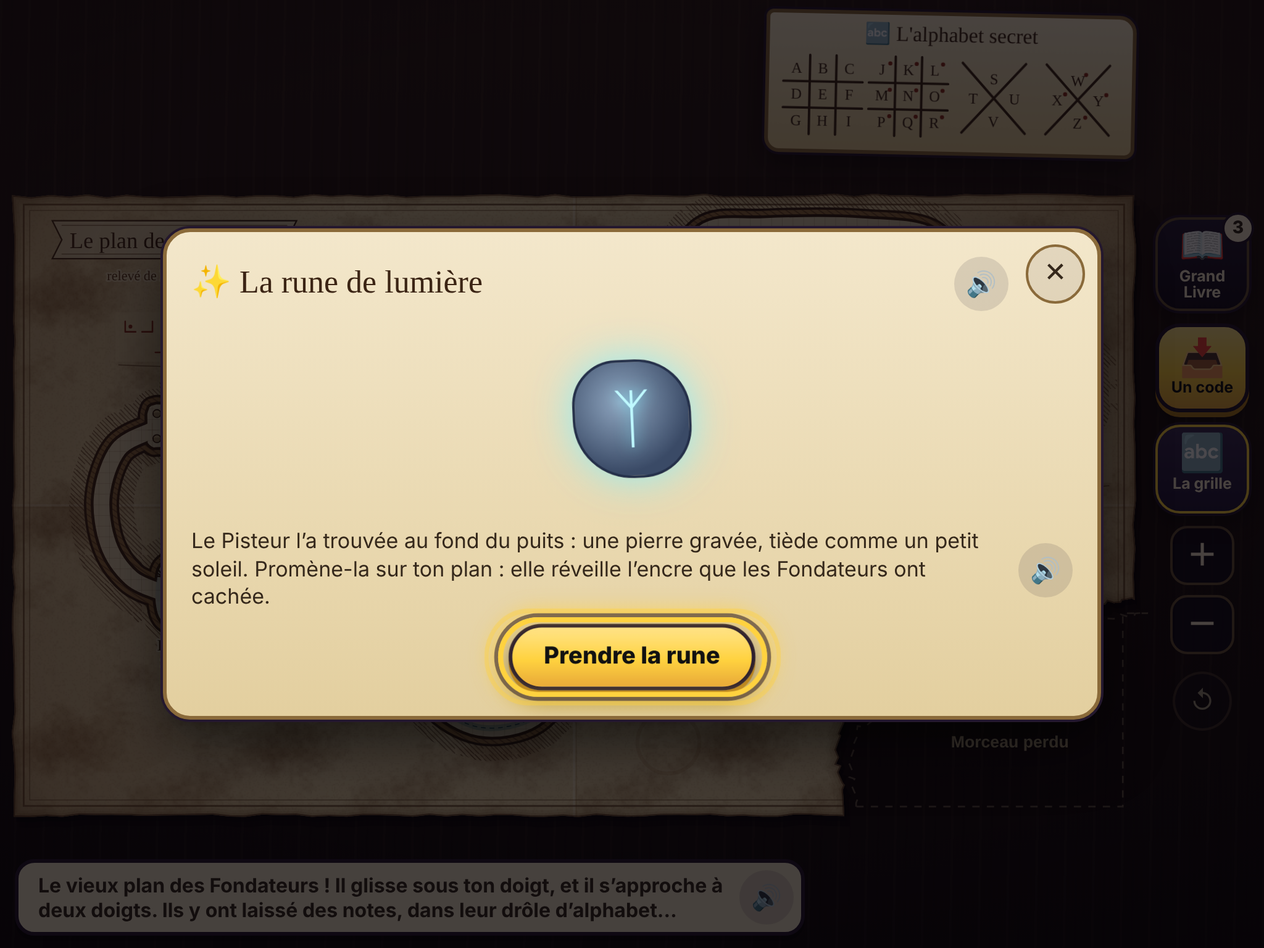
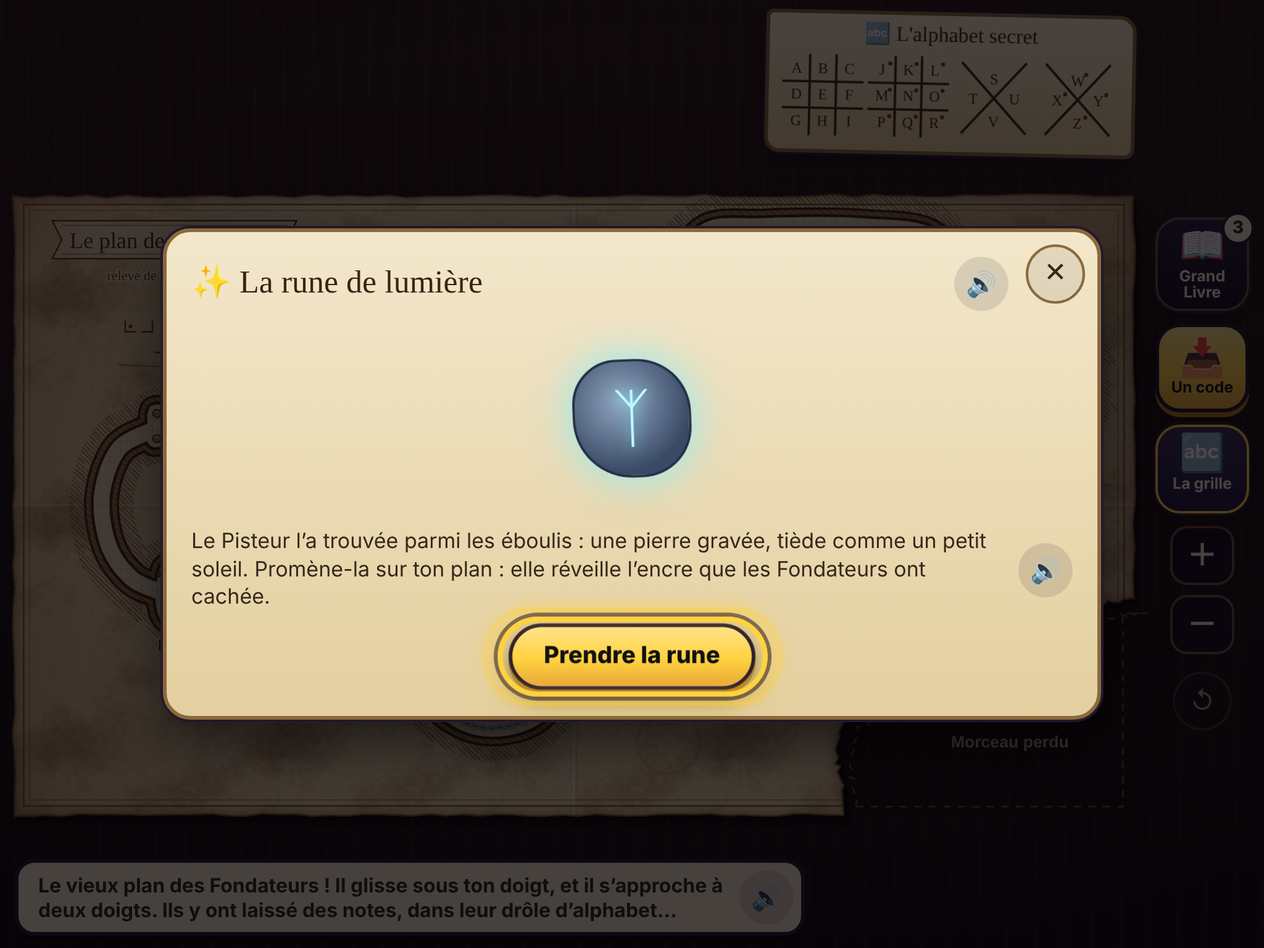
Donjon : carnet de l'aventurier tout ouvert, rune dans la deuxième salle, même donjon par le puits ou la crypte ; tests et documents à jour
Claude-Session: https://claude.ai/code/session_014tBbPJtKqYNLRAPgA5SpCV

Changed region(s): [[0.375, 0.625, 0.625, 0.7188], [0.3125, 0.5625, 0.7812, 0.5938], [0.4375, 0.7188, 0.5625, 0.75]]

diff --git a/jeu/donjon/donjon-sage.html b/jeu/donjon/donjon-sage.html
@@ -751,8 +751,10 @@ D.CHEMIN = ['rats', 'canaux', 'toiles', 'atelier', 'ossuaire', 'bassin'];
 /* ===================================================================== 8. LES LIEUX (ids de carte.js) : ce qu'on y trouve
    objets : à prendre en les touchant. coffre : deux objets, on n'en prend qu'un. combat : l'id dans D.COMBATS. */
 D.LIEUX = {
-  puits:{nom:'Le fond du puits', depart:true, objets:['rune', 'carnet']},     /* le carnet de l'aventurier attend à l'entrée (Romain, 11 novembre) */
-  galerie:{nom:'La galerie effondrée', objets:['bourse']},
+  puits:{nom:'Le fond du puits', depart:true, objets:['carnet']},             /* le carnet de l'aventurier attend à l'entrée (Romain, 11 novembre) */
+  /* Romain, 11 novembre (8 h 45) : la rune du Sage n'est plus dans la première salle, mais dans la deuxième — pour que rien ne
+     dépende de l'entrée (le puits aujourd'hui, la crypte dans l'enquête 3) */
+  galerie:{nom:'La galerie effondrée', objets:['bourse', 'rune']},
   aeration:{nom:'Le puits d\'aération', objets:['herbes']},            /* (la sacoche est retirée : plus de sac à remplir, Romain, 10 novembre) */
   rats:{nom:'La salle des rats', combat:'rats'},
   reserve:{nom:'La réserve', objets:['fleches-argent', 'fleches-lourdes']},      /* deux carquois dans un coffre : on prend ce que les mains peuvent porter */
@@ -3204,7 +3206,8 @@ function majCoin(anim){
   }
 }
 function majTraductions(){ qa('[data-trad]', planEl).forEach(function(g){ g.style.display = S.lues[g.getAttribute('data-trad')] ? '' : 'none'; }); }
-/* la rune de lumière : le Pisteur la trouve au fond du puits (Romain, 10 novembre) ; tant que son code n'est pas arrivé, pas de rune */
+/* la rune de lumière : le Pisteur la trouve dans le donjon (dans la deuxième salle ; le texte ne dit pas où : l'entrée peut être
+   le puits ou la crypte — Romain, 11 novembre) ; tant que son code n'est pas arrivé, pas de rune */
 function majRune(anim){
   var ok = !!S.codes['rune:lumiere'];
   runeEl.hidden = !ok;
@@ -3457,11 +3460,10 @@ function livre(guide){
   }
   html += '</div>';
   /* le carnet de l'aventurier (trouvé par le Pisteur à l'entrée du donjon) : une page par monstre étudié */
-  var betes = monstresEtudies(), carnet = !!S.codes['carnet:aventurier'];
+  var betes = monstresEtudies();                        /* (tout le carnet dès qu'il est là : Romain, 11 novembre) */
   html += '<div class="livre-betes"><h3>📓 Le vieux carnet</h3>' +
     (betes.length ? '<div class="betes">' + betes.map(function(m){ return '<button type="button" class="bete-vignette" data-bete="' + m + '"><img src="' + PORTRAITS + m + '.webp" alt="" loading="lazy"><b>' + esc(DD.MONSTRES[m].nom) + '</b></button>'; }).join('') + '</div>'
-      : dit(carnet ? 'Ses pages sont collées par l’humidité. Pendant un combat, ton héros peut étudier un monstre : le Pisteur te montrera un code, et tu sauras quelle page décoller.'
-                   : 'Pas encore de carnet. On raconte qu’un aventurier a laissé le sien à l’entrée du donjon… Si le Pisteur le trouve, il te montrera un code.')) + '</div>';
+      : dit('Pas encore de carnet. On raconte qu’un aventurier a laissé le sien à l’entrée du donjon… Si le Pisteur le trouve, il te montrera un code.')) + '</div>';
   if(S.codes['porte:odette']) html += '<div class="livre-note">' + dit('Noté de ta main : Odette est vivante, derrière la porte aux quatre signes.') + '</div>';
   var w = PG.fenetre(html, {classe:'livre parch'}), f = w.el;
   if(guide) PG.guider(f.querySelector('[data-page="' + guide + '"]'));
@@ -3480,15 +3482,17 @@ function livre(guide){
    (fabriqués par pages/croquis/seuls.py puis croquis.py, à partir des monstres du bestiaire).
    ====================================================================== */
 var PORTRAITS = /donjon-sage\.html/.test(location.pathname) ? 'pages/portraits/' : 'i/portrait-';
-function monstresEtudies(){ return Object.keys(DD.LIVRE).filter(function(m){ return !!S.codes['etude:' + m]; }); }
+/* Romain, 11 novembre (8 h 45) : « qu'il y ait toutes les pages débloquées dès le début », sans pages collées. Dès que le Sage
+   a le carnet, il le feuillette en entier ; un code d'étude l'ouvre tout droit à la page du monstre. (Sans le carnet, seules
+   les pages ouvertes par un code d'étude sont là.) */
+function monstresEtudies(){ return Object.keys(DD.LIVRE).filter(function(m){ return !!S.codes['carnet:aventurier'] || !!S.codes['etude:' + m]; }); }
 /* la page d'un monstre : le croquis de l'aventurier et son récit (un 🔊 par paragraphe). Pas de titres, pas de questions. */
 function pageMonstre(m, nouveau){
   var M = DD.MONSTRES[m], L = DD.LIVRE[m] || [];
   var html = '<div class="titre"><h2>' + esc(M.nom) + '</h2>' + PG.lireBtn(M.nom) + '</div>' +
     '<div class="bete-page"><div class="bete-img"><img src="' + PORTRAITS + m + '.webp" alt=""><small>Carnet d’un aventurier</small></div>' +
     '<div class="bete-recit">' +
-      (nouveau ? dit(S.codes['carnet:aventurier'] ? 'Une page du carnet se décolle : c’est bien ce monstre-là. L’aventurier raconte ce qui lui est arrivé. À toi de voir ce que ça vous apprend.'
-                                                  : 'Une vieille page, glissée dans ton Grand Livre. Un aventurier y raconte ce qui lui est arrivé. À toi de voir ce que ça vous apprend.', 'bete-intro') : '') +
+      (nouveau ? dit('Le carnet s’ouvre à la bonne page : c’est bien ce monstre-là. L’aventurier raconte ce qui lui est arrivé. À toi de voir ce que ça vous apprend.', 'bete-intro') : '') +
       L.map(function(t){ return '<div class="recit">' + dit(t) + '</div>'; }).join('') +
     '</div></div>' +
     '<div class="rangee"><button type="button" class="aller" data-fen-fermer>' + (nouveau ? 'C’est noté' : 'Refermer la page') + '</button></div>';
@@ -3528,18 +3532,18 @@ function scene(id){
   if(id.indexOf('etude:') === 0){
     var m = id.slice(6);
     pageMonstre(m, true);
-    conte('Une page de plus dans le carnet de l’aventurier : ' + DD.MONSTRES[m].nom + '. Tu la retrouveras dans ton Grand Livre.');
+    conte('Le carnet de l’aventurier, à la page : ' + DD.MONSTRES[m].nom + '. Tu la retrouveras dans ton Grand Livre.');
   } else if(id === 'carnet:aventurier'){
     /* le carnet trouvé à l'entrée du donjon : il entre dans le Grand Livre */
     var wc = PG.fenetre('<div class="titre"><h2>📓 Un vieux carnet</h2></div>' +
-      dit('Un vieux carnet, trouvé à l’entrée du donjon. Quelqu’un est passé par ici avant vous : un aventurier, sans pouvoirs ni potions, qui a tout noté.') +
-      dit('L’humidité a collé ses pages. Quand ton héros étudiera un monstre, tu sauras laquelle décoller.') +
+      dit('Un vieux carnet, trouvé à l’entrée du donjon. Quelqu’un est passé par ici avant vous : un aventurier, qui a tout noté.') +
+      dit('Chaque monstre qu’il a croisé a sa page. Tu peux le feuilleter quand tu veux, dans ton Grand Livre.') +
       '<div class="rangee"><button type="button" class="aller" data-fen-fermer>Je le garde</button></div>', {classe:'scene parch'});
     PG.son('page'); PG.guider(wc.el.querySelector('.aller'));
-    conte('Le carnet de l’aventurier est rangé dans ton Grand Livre. Ses pages attendent d’être décollées.');
+    conte('Le carnet de l’aventurier est rangé dans ton Grand Livre. Feuillette-le : chaque monstre y a sa page.');
   } else if(id === 'rune:lumiere'){
     var wr = PG.fenetre('<div class="titre"><h2>✨ La rune de lumière</h2>' + PG.lireBtn('La rune de lumière') + '</div>' + '<div class="scene-img rune-img" aria-hidden="true"><i>ᛉ</i></div>' +
-      dit('Le Pisteur l’a trouvée au fond du puits : une pierre gravée, tiède comme un petit soleil. Promène-la sur ton plan : elle réveille l’encre que les Fondateurs ont cachée.', 'scene-txt') +
+      dit('Le Pisteur l’a trouvée parmi les éboulis : une pierre gravée, tiède comme un petit soleil. Promène-la sur ton plan : elle réveille l’encre que les Fondateurs ont cachée.', 'scene-txt') +
       '<div class="rangee"><button type="button" class="aller" data-fen-fermer>Prendre la rune</button></div>', {classe:'scene parch', surFermer:function(){
         majRune(true); mesurerBords(); PG.guider(runeEl);
         conte('Ta rune de lumière est là, en bas. Promène-la doucement sur le vieux papier…');

diff --git a/jeu/donjon/pages/sage.js b/jeu/donjon/pages/sage.js
@@ -111,7 +111,8 @@ function majCoin(anim){
   }
 }
 function majTraductions(){ qa('[data-trad]', planEl).forEach(function(g){ g.style.display = S.lues[g.getAttribute('data-trad')] ? '' : 'none'; }); }
-/* la rune de lumière : le Pisteur la trouve au fond du puits (Romain, 10 novembre) ; tant que son code n'est pas arrivé, pas de rune */
+/* la rune de lumière : le Pisteur la trouve dans le donjon (dans la deuxième salle ; le texte ne dit pas où : l'entrée peut être
+   le puits ou la crypte — Romain, 11 novembre) ; tant que son code n'est pas arrivé, pas de rune */
 function majRune(anim){
   var ok = !!S.codes['rune:lumiere'];
   runeEl.hidden = !ok;
@@ -364,11 +365,10 @@ function livre(guide){
   }
   html += '</div>';
   /* le carnet de l'aventurier (trouvé par le Pisteur à l'entrée du donjon) : une page par monstre étudié */
-  var betes = monstresEtudies(), carnet = !!S.codes['carnet:aventurier'];
+  var betes = monstresEtudies();                        /* (tout le carnet dès qu'il est là : Romain, 11 novembre) */
   html += '<div class="livre-betes"><h3>📓 Le vieux carnet</h3>' +
     (betes.length ? '<div class="betes">' + betes.map(function(m){ return '<button type="button" class="bete-vignette" data-bete="' + m + '"><img src="' + PORTRAITS + m + '.webp" alt="" loading="lazy"><b>' + esc(DD.MONSTRES[m].nom) + '</b></button>'; }).join('') + '</div>'
-      : dit(carnet ? 'Ses pages sont collées par l’humidité. Pendant un combat, ton héros peut étudier un monstre : le Pisteur te montrera un code, et tu sauras quelle page décoller.'
-                   : 'Pas encore de carnet. On raconte qu’un aventurier a laissé le sien à l’entrée du donjon… Si le Pisteur le trouve, il te montrera un code.')) + '</div>';
+      : dit('Pas encore de carnet. On raconte qu’un aventurier a laissé le sien à l’entrée du donjon… Si le Pisteur le trouve, il te montrera un code.')) + '</div>';
   if(S.codes['porte:odette']) html += '<div class="livre-note">' + dit('Noté de ta main : Odette est vivante, derrière la porte aux quatre signes.') + '</div>';
   var w = PG.fenetre(html, {classe:'livre parch'}), f = w.el;
   if(guide) PG.guider(f.querySelector('[data-page="' + guide + '"]'));
@@ -387,15 +387,17 @@ function livre(guide){
    (fabriqués par pages/croquis/seuls.py puis croquis.py, à partir des monstres du bestiaire).
    ====================================================================== */
 var PORTRAITS = /donjon-sage\.html/.test(location.pathname) ? 'pages/portraits/' : 'i/portrait-';
-function monstresEtudies(){ return Object.keys(DD.LIVRE).filter(function(m){ return !!S.codes['etude:' + m]; }); }
+/* Romain, 11 novembre (8 h 45) : « qu'il y ait toutes les pages débloquées dès le début », sans pages collées. Dès que le Sage
+   a le carnet, il le feuillette en entier ; un code d'étude l'ouvre tout droit à la page du monstre. (Sans le carnet, seules
+   les pages ouvertes par un code d'étude sont là.) */
+function monstresEtudies(){ return Object.keys(DD.LIVRE).filter(function(m){ return !!S.codes['carnet:aventurier'] || !!S.codes['etude:' + m]; }); }
 /* la page d'un monstre : le croquis de l'aventurier et son récit (un 🔊 par paragraphe). Pas de titres, pas de questions. */
 function pageMonstre(m, nouveau){
   var M = DD.MONSTRES[m], L = DD.LIVRE[m] || [];
   var html = '<div class="titre"><h2>' + esc(M.nom) + '</h2>' + PG.lireBtn(M.nom) + '</div>' +
     '<div class="bete-page"><div class="bete-img"><img src="' + PORTRAITS + m + '.webp" alt=""><small>Carnet d’un aventurier</small></div>' +
     '<div class="bete-recit">' +
-      (nouveau ? dit(S.codes['carnet:aventurier'] ? 'Une page du carnet se décolle : c’est bien ce monstre-là. L’aventurier raconte ce qui lui est arrivé. À toi de voir ce que ça vous apprend.'
-                                                  : 'Une vieille page, glissée dans ton Grand Livre. Un aventurier y raconte ce qui lui est arrivé. À toi de voir ce que ça vous apprend.', 'bete-intro') : '') +
+      (nouveau ? dit('Le carnet s’ouvre à la bonne page : c’est bien ce monstre-là. L’aventurier raconte ce qui lui est arrivé. À toi de voir ce que ça vous apprend.', 'bete-intro') : '') +
       L.map(function(t){ return '<div class="recit">' + dit(t) + '</div>'; }).join('') +
     '</div></div>' +
     '<div class="rangee"><button type="button" class="aller" data-fen-fermer>' + (nouveau ? 'C’est noté' : 'Refermer la page') + '</button></div>';
@@ -435,18 +437,18 @@ function scene(id){
   if(id.indexOf('etude:') === 0){
     var m = id.slice(6);
     pageMonstre(m, true);
-    conte('Une page de plus dans le carnet de l’aventurier : ' + DD.MONSTRES[m].nom + '. Tu la retrouveras dans ton Grand Livre.');
+    conte('Le carnet de l’aventurier, à la page : ' + DD.MONSTRES[m].nom + '. Tu la retrouveras dans ton Grand Livre.');
   } else if(id === 'carnet:aventurier'){
     /* le carnet trouvé à l'entrée du donjon : il entre dans le Grand Livre */
     var wc = PG.fenetre('<div class="titre"><h2>📓 Un vieux carnet</h2></div>' +
-      dit('Un vieux carnet, trouvé à l’entrée du donjon. Quelqu’un est passé par ici avant vous : un aventurier, sans pouvoirs ni potions, qui a tout noté.') +
-      dit('L’humidité a collé ses pages. Quand ton héros étudiera un monstre, tu sauras laquelle décoller.') +
+      dit('Un vieux carnet, trouvé à l’entrée du donjon. Quelqu’un est passé par ici avant vous : un aventurier, qui a tout noté.') +
+      dit('Chaque monstre qu’il a croisé a sa page. Tu peux le feuilleter quand tu veux, dans ton Grand Livre.') +
       '<div class="rangee"><button type="button" class="aller" data-fen-fermer>Je le garde</button></div>', {classe:'scene parch'});
     PG.son('page'); PG.guider(wc.el.querySelector('.aller'));
-    conte('Le carnet de l’aventurier est rangé dans ton Grand Livre. Ses pages attendent d’être décollées.');
+    conte('Le carnet de l’aventurier est rangé dans ton Grand Livre. Feuillette-le : chaque monstre y a sa page.');
   } else if(id === 'rune:lumiere'){
     var wr = PG.fenetre('<div class="titre"><h2>✨ La rune de lumière</h2>' + PG.lireBtn('La rune de lumière') + '</div>' + '<div class="scene-img rune-img" aria-hidden="true"><i>ᛉ</i></div>' +
-      dit('Le Pisteur l’a trouvée au fond du puits : une pierre gravée, tiède comme un petit soleil. Promène-la sur ton plan : elle réveille l’encre que les Fondateurs ont cachée.', 'scene-txt') +
+      dit('Le Pisteur l’a trouvée parmi les éboulis : une pierre gravée, tiède comme un petit soleil. Promène-la sur ton plan : elle réveille l’encre que les Fondateurs ont cachée.', 'scene-txt') +
       '<div class="rangee"><button type="button" class="aller" data-fen-fermer>Prendre la rune</button></div>', {classe:'scene parch', surFermer:function(){
         majRune(true); mesurerBords(); PG.guider(runeEl);
         conte('Ta rune de lumière est là, en bas. Promène-la doucement sur le vieux papier…');

diff --git a/jeu/donjon/moteur/test-regles.js b/jeu/donjon/moteur/test-regles.js
@@ -979,7 +979,7 @@ section('Les salles sans combat');
 (function(){
   var p = R.nouvellePartie(21), ev;
   ev = R.entrer(p, 'galerie');
-  egal(trouve(ev, 'scene').contenu.objets, ['bourse'], 'la galerie effondrée : une bourse');
+  egal(trouve(ev, 'scene').contenu.objets, ['bourse', 'rune'], 'la galerie effondrée : une bourse, et la pierre de rune du Sage');
   ev = R.prendre(p, 'bourse');
   ok(trouve(ev, 'or').n === D.CHIFFRES.bourse && p.or === D.CHIFFRES.bourse && p.heros.pisteur.objets.length === 1, 'la bourse donne de l\'or et ne prend pas de place');
   egal(R.prendre(p, 'bourse')[0].mot, 'Déjà pris', 'on ne la prend pas deux fois');
@@ -1050,9 +1050,12 @@ section('Les salles sans combat');
     ok(trouve(der, 'passage').vers === 'toiles' && z.faits['passage:canaux'] === 1 && R.contenu(z, 'canaux').roue.ouvert, 'trois à droite, un à gauche, deux à droite : la grille se lève, le passage vers la cave aux toiles est ouvert');
     ok(R.roue(z, 'd')[0].libre, 'ensuite la roue tourne dans le vide');
     egal(D.ROUE.suite.join(''), 'dddgdd', 'l\'ordre de la roue est celui du plan du Sage (3 à droite, 1 à gauche, 2 à droite)');
-    /* la rune de lumière du Sage, au fond du puits */
+    /* à l'entrée : le carnet de l'aventurier ; la rune de lumière du Sage est dans la deuxième salle (Romain, 11 novembre :
+       le donjon est le même qu'on entre par le puits ou par la crypte, seule la pièce d'entrée change) */
     var y = R.nouvellePartie(8);
-    egal(R.contenu(y, 'puits').objets, ['rune', 'carnet'], 'au fond du puits : la pierre de rune, et le carnet de l\'aventurier');
+    egal(R.contenu(y, 'puits').objets, ['carnet'], 'à l\'entrée : le carnet de l\'aventurier, et pas la pierre de rune');
+    R.entrer(y, 'galerie');
+    egal(R.contenu(y, 'galerie').objets, ['bourse', 'rune'], 'dans la deuxième salle (la galerie effondrée) : la bourse, et la pierre de rune');
     ok(D.OBJETS.carnet.code === 'carnet:aventurier' && CODES.CODES['carnet:aventurier'].a === 'sage' && CODES.CODES['carnet:aventurier'].de === 'pisteur', 'le carnet donne un code pour le Sage (Romain, 11 novembre : « un livre à l\'entrée du puits »)');
     var er = R.prendre(y, 'rune');
     ok(trouve(er, 'code-objet').code === 'rune:lumiere' && trouve(er, 'code-objet').pour === 'sage' && R.objets(y).codes.some(function(c){ return c.code === 'rune:lumiere'; }), 'la prendre donne un code pour le Sage (il reste dans les objets)');

diff --git a/jeu/donjon/scenes/scenes.js b/jeu/donjon/scenes/scenes.js
@@ -1345,16 +1345,17 @@ SALLES.puits = function(){ return {nom: 'Le fond du puits', type: 'depart', ambi
   sorties: {ouest: {x: 46, y: 250}, nord: {x: 600, y: 250}, est: {x: 858, y: 250}},
   elements: [
     {id: 'corde', type: 'deco', anim: 'balance', amplitude: 1.1, duree: 4600, svg: A.corde(SOL + 4), x: 598, y: -2, w: 24, h: SOL + 4, pivot: [12, 0], z: 3},
-    /* la pierre de rune du Sage : posée là comme une pierre ordinaire, sans lueur ni étoiles (il faut chercher) */
     /* le carnet de l'aventurier (Romain, 11 novembre : « un livre à l'entrée du puits ») : posé par terre, bien visible */
     objet({id: 'carnet', nom: 'Un vieux carnet', svg: A.livre('#6b4a2a'), x: 468, y: SOL - 30, w: 60, h: 30, sol: true, lueur: '#ffe8a8', pour: 'sage', code: 'carnet'}),
-    objet({id: 'rune', nom: 'Une pierre gravée', svg: A.pierreRune(), x: 846, y: SOL - 31, w: 60, h: 40, sol: true, brille: false, discret: true, lueur: '#9ff6ff', pour: 'sage', code: 'rune'}),
     poussiere(530, 40, 170, 250, 8, '#eef4ff'),
     poussiere(700, 30, 220, 300, 3, '#bfe0ff', 'gouttes')
   ]}; };
 SALLES.galerie = function(){ return {nom: 'La galerie effondrée', type: 'cul-de-sac', ambiance: 'des poutres cassées, un éboulis ; des lichens ambrés',
   elements: [
     objet({id: 'bourse', nom: 'Une bourse de pièces', svg: A.bourse(), x: 636, y: SOL - 44, w: 72, h: 58, sol: true, lueur: '#ffd36a', pour: null, effet: 'or'}),
+    /* la pierre de rune du Sage (Romain, 11 novembre : dans la deuxième salle, plus à l'entrée) : une pierre parmi les éboulis,
+       sans lueur ni étoiles — il faut chercher */
+    objet({id: 'rune', nom: 'Une pierre gravée', svg: A.pierreRune(), x: 800, y: SOL - 31, w: 60, h: 40, sol: true, brille: false, discret: true, lueur: '#9ff6ff', pour: 'sage', code: 'rune'}),
     poussiere(640, 40, 170, 280, 7, '#eef4ff')
   ]}; };
 SALLES.aeration = function(){ return {nom: 'Le puits d\'aération', type: 'cul-de-sac', ambiance: 'un rai de lumière verte et dorée, des plantes qui poussent',

diff --git a/jeu/donjon/moteur/src/donnees.js b/jeu/donjon/moteur/src/donnees.js
@@ -362,8 +362,10 @@ D.CHEMIN = ['rats', 'canaux', 'toiles', 'atelier', 'ossuaire', 'bassin'];
 /* ===================================================================== 8. LES LIEUX (ids de carte.js) : ce qu'on y trouve
    objets : à prendre en les touchant. coffre : deux objets, on n'en prend qu'un. combat : l'id dans D.COMBATS. */
 D.LIEUX = {
-  puits:{nom:'Le fond du puits', depart:true, objets:['rune', 'carnet']},     /* le carnet de l'aventurier attend à l'entrée (Romain, 11 novembre) */
-  galerie:{nom:'La galerie effondrée', objets:['bourse']},
+  puits:{nom:'Le fond du puits', depart:true, objets:['carnet']},             /* le carnet de l'aventurier attend à l'entrée (Romain, 11 novembre) */
+  /* Romain, 11 novembre (8 h 45) : la rune du Sage n'est plus dans la première salle, mais dans la deuxième — pour que rien ne
+     dépende de l'entrée (le puits aujourd'hui, la crypte dans l'enquête 3) */
+  galerie:{nom:'La galerie effondrée', objets:['bourse', 'rune']},
   aeration:{nom:'Le puits d\'aération', objets:['herbes']},            /* (la sacoche est retirée : plus de sac à remplir, Romain, 10 novembre) */
   rats:{nom:'La salle des rats', combat:'rats'},
   reserve:{nom:'La réserve', objets:['fleches-argent', 'fleches-lourdes']},      /* deux carquois dans un coffre : on prend ce que les mains peuvent porter */

diff --git a/jeu/donjon/test-sage.py b/jeu/donjon/test-sage.py
@@ -93,7 +93,7 @@ def parcours(nav, appareil):
     clic(pg, '.pave-fen .fermer')
     # --- la rune de lumière arrive par son code ---
     taper(pg, 'rune:lumiere')
-    b.ok(pg.is_visible('.scene') and 'puits' in pg.inner_text('.scene'), 'rune:lumiere : la petite scène s’ouvre (la pierre trouvée au fond du puits)')
+    b.ok(pg.is_visible('.scene') and 'éboulis' in pg.inner_text('.scene') and 'puits' not in pg.inner_text('.scene'), 'rune:lumiere : la petite scène s’ouvre (la pierre trouvée parmi les éboulis ; on ne parle pas du puits : l’entrée peut être la crypte)')
     regles(b, pg, 'scène de la rune')
     capture(pg, 'sage-rune-' + t)
     clic(pg, '.scene [data-fen-fermer].aller'); pg.wait_for_timeout(900)
@@ -176,14 +176,17 @@ def parcours(nav, appareil):
     b.ok(pg.locator('.livre .bete-vignette').count() == 0 and 'Pas encore de carnet' in pg.inner_text('.livre-betes'), 'Grand Livre : pas encore de carnet (c’est dit)')
     clic(pg, '.livre .fermer'); pg.wait_for_timeout(200)
     taper(pg, 'carnet:aventurier'); pg.wait_for_timeout(700)
-    b.ok(pg.is_visible('.scene') and 'carnet' in pg.inner_text('.scene').lower() and pg.is_visible('.scene .aller.guide'), 'le code du carnet : une petite scène, le rond jaune sur « Je le garde »')
+    b.ok(pg.is_visible('.scene') and 'carnet' in pg.inner_text('.scene').lower() and 'pouvoir' not in pg.inner_text('.scene') and pg.is_visible('.scene .aller.guide'), 'le code du carnet : une petite scène (« un aventurier », sans autre précision), le rond jaune sur « Je le garde »')
     regles(b, pg, 'le carnet')
     clic(pg, '.scene .aller'); pg.wait_for_timeout(300)
     clic(pg, '#b-livre'); pg.wait_for_timeout(300)
-    b.ok('pages sont collées' in pg.inner_text('.livre-betes'), 'Grand Livre : le carnet est là, ses pages sont encore collées')
+    b.ok(pg.locator('.livre .bete-vignette').count() == 9 and 'collé' not in pg.inner_text('.livre-betes'), 'Grand Livre : le carnet est là, avec toutes ses pages dès le début (Romain, 11 novembre), sans page collée')
+    clic(pg, '.livre [data-bete="bourbe"]'); pg.wait_for_timeout(500)
+    b.ok(pg.is_visible('.bete-fen') and 'Bourbe' in pg.inner_text('.bete-fen h2') and pg.locator('.bete-fen .recit').count() == 3, 'on peut lire tout de suite la page de Bourbe, sans l’avoir étudié')
+    clic(pg, '.bete-fen .aller'); pg.wait_for_timeout(400)
     clic(pg, '.livre .fermer'); pg.wait_for_timeout(200)
     taper(pg, 'etude:gardien'); pg.wait_for_timeout(900)
-    b.ok(pg.is_visible('.bete-fen') and 'Gardien de rouille' in pg.inner_text('.bete-fen h2'), 'le code d’étude du Gardien décolle sa page')
+    b.ok(pg.is_visible('.bete-fen') and 'Gardien de rouille' in pg.inner_text('.bete-fen h2'), 'le code d’étude du Gardien ouvre le carnet à sa page')
     b.ok(pg.evaluate('(() => { var i = document.querySelector(".bete-fen .bete-img img"); return i.complete && i.naturalWidth > 0; })()'), 'on voit le croquis du monstre')
     b.ok(pg.locator('.bete-fen .recit').count() == 2 and pg.locator('.bete-fen .recit .lire').count() == 2 and pg.locator('.bete-fen .enigme, .bete-fen h3').count() == 0, 'le récit de l’aventurier : deux paragraphes, chacun avec son 🔊, sans titres')
     txt = pg.inner_text('.bete-fen .bete-recit').lower()
@@ -200,7 +203,7 @@ def parcours(nav, appareil):
     b.ok(pg.locator('.bete-fen .recit').count() == 2, 'le rat d’égout : sa page')
     clic(pg, '.bete-fen .aller'); pg.wait_for_timeout(300)
     clic(pg, '#b-livre'); pg.wait_for_timeout(400)
-    b.ok(pg.locator('.livre .bete-vignette').count() == 2, 'le Grand Livre garde les deux pages décollées')
+    b.ok(pg.locator('.livre .bete-vignette').count() == 9, 'le Grand Livre garde tout le carnet')
     capture(pg, 'sage-livre-monstres-' + t)
     clic(pg, '.livre [data-bete="gardien"]'); pg.wait_for_timeout(500)
     b.ok(pg.is_visible('.bete-fen') and pg.locator('.bete-fen .bete-intro').count() == 0, 'on rouvre la page du Gardien depuis le Grand Livre')
@@ -217,7 +220,7 @@ def parcours(nav, appareil):
     b.ok(vu2 > 200 and S['lues'].get('rune') and S['codes'].get('rune:lumiere') and pg.is_visible('#rune'), 'après rechargement : l’encre révélée, la note déchiffrée et la rune restent')
     clic(pg, '#b-livre'); pg.wait_for_timeout(300)
     b.ok(pg.get_attribute('.livre [data-voir="2"] .code-grand', 'data-code') == 'sauve:2' and 'Odette' in pg.inner_text('.livre'), 'après rechargement : le Grand Livre garde la page écrite et la note d’Odette')
-    b.ok(pg.locator('.livre .bete-vignette').count() == 2, 'après rechargement : les deux monstres étudiés sont toujours dans le Grand Livre')
+    b.ok(pg.locator('.livre .bete-vignette').count() == 9, 'après rechargement : le carnet est toujours dans le Grand Livre, avec toutes ses pages')
     clic(pg, '.livre .fermer')
     capture(pg, 'sage-recharge-' + t)
     # --- un 🔊 parle quand on le touche ---

diff --git a/jeu/donjon/moteur/test-donjon.py b/jeu/donjon/moteur/test-donjon.py
@@ -123,16 +123,13 @@ def visite(nav):
     # Romain, 11 novembre : « un livre à l'entrée du puits » — le carnet de l'aventurier attend par terre
     verifie(J.js("document.querySelectorAll('#scene .perso.heros').length") == 3 and J.js("!!DJ.Explo._S().o.carnet") and J.js("!document.querySelector('#b-repartir.guide')"), 'le puits : le carnet de l\'aventurier attend par terre (« Continuer » ne porte pas encore le rond jaune)')
     # Romain, 10 novembre : plus de ronds jaunes dans les salles ; la pierre de rune du Sage est là, sans rien pour la montrer
-    verifie(J.js("document.querySelectorAll('#scene .ob-guide').length") == 0 and J.js("!DJ.Explo._S().o.rune.el.classList.contains('ob-brille')"), 'le puits : aucun rond jaune dans la salle, et la pierre de rune ne brille pas')
+    verifie(J.js("document.querySelectorAll('#scene .ob-guide').length") == 0 and J.js("!DJ.Explo._S().o.rune"), 'le puits : aucun rond jaune dans la salle ; la pierre de rune n\'est plus à l\'entrée (Romain, 11 novembre)')
     J.cap('puits'); J.objet('carnet'); pg.wait_for_selector('#fenetre .code-gros', timeout=15000); pg.wait_for_timeout(300)
     verifie(J.code_montre() == noms_code(pg, 'carnet:aventurier') and 'le Sage' in J.js("document.querySelector('#fenetre .ligne').textContent"), f'le carnet : un code pour le Sage ({J.code_montre()})')
     verifie(not J.sans_lire(), 'la fenêtre du code du carnet : chaque texte a son 🔊')
     J.clic('#fenetre .aller'); pg.wait_for_timeout(900)
     verifie(J.js("!!document.querySelector('#b-repartir.guide')") and J.partie()['faits'].get('objet:carnet') == 1, 'le carnet ramassé : plus rien de visible à prendre, « Continuer » porte le rond jaune')
-    J.objet('rune'); pg.wait_for_selector('#fenetre .code-gros', timeout=15000); pg.wait_for_timeout(300)
-    verifie(J.code_montre() == noms_code(pg, 'rune:lumiere') and 'le Sage' in J.js("document.querySelector('#fenetre .ligne').textContent"), f'la pierre de rune : un code pour le Sage ({J.code_montre()})')
-    verifie(not J.sans_lire(), 'la fenêtre du code de la rune : chaque texte a son 🔊')
-    J.cap('rune'); J.clic('#fenetre .aller'); J.repartir()
+    J.repartir()
     e = J.etat()
     verifie(e['ecran'] == 'carte' and sorted(e['sorties']) == ['aeration', 'galerie', 'rats'], f'la carte : trois passages partent du puits ({e["sorties"]})')
     verifie(J.js("DJ.Explo._X().V.brume.estVu('puits') && !DJ.Explo._X().V.brume.estVu('rats')"), 'la brume cache tout sauf le puits')
@@ -141,6 +138,12 @@ def visite(nav):
     # la galerie : la bourse
     J.va('galerie'); J.scene('galerie'); J.objet('bourse'); J.libre(); pg.wait_for_timeout(300)
     verifie(J.partie()['or'] > 0, f'la galerie : la bourse donne de l\'or ({J.partie()["or"]})')
+    # la pierre de rune du Sage est ici, dans la deuxième salle, parmi les éboulis : rien ne la montre
+    verifie(J.js("!DJ.Explo._S().o.rune.el.classList.contains('ob-brille')") and J.js("document.querySelectorAll('#scene .ob-guide').length") == 0, 'la galerie : la pierre de rune est là, sans lueur ni rond jaune')
+    J.objet('rune'); pg.wait_for_selector('#fenetre .code-gros', timeout=15000); pg.wait_for_timeout(300)
+    verifie(J.code_montre() == noms_code(pg, 'rune:lumiere') and 'le Sage' in J.js("document.querySelector('#fenetre .ligne').textContent"), f'la pierre de rune : un code pour le Sage ({J.code_montre()})')
+    verifie(not J.sans_lire(), 'la fenêtre du code de la rune : chaque texte a son 🔊')
+    J.cap('rune'); J.clic('#fenetre .aller'); pg.wait_for_timeout(600)
     J.repartir(); J.chemin('puits')
     # l'aération : les herbes (un objet à code) ; la sacoche a disparu avec le sac
     J.va('aeration'); J.scene('aeration'); pg.wait_for_timeout(300)

diff --git a/jeu/donjon/moteur/test-descente.py b/jeu/donjon/moteur/test-descente.py
@@ -216,7 +216,8 @@ class Descente:
         def fait(k):
             return bool(f.get(k))
         abime = any(H[h]['pv'] < 0.7 * H[h]['pvMax'] for h in HEROS)
-        if not fait('objet:rune') or not fait('objet:carnet'): return 'puits'      # la pierre de rune du Sage et le carnet de l'aventurier, au fond du puits
+        if not fait('objet:carnet'): return 'puits'                     # le carnet de l'aventurier, à l'entrée
+        if not fait('objet:rune'): return 'galerie'                     # la pierre de rune du Sage, dans la deuxième salle
         if not fait('objet:herbes'): return 'aeration'
         if not fait('combat:rats'): return 'rats'
         if not fait('objet:fleches-lourdes') or not fait('objet:fleches-argent'): return 'reserve'
@@ -272,9 +273,12 @@ class Descente:
         if lieu == 'puits' and not f.get('objet:carnet'):
             self.objet('carnet'); self.fenetre_code()
             f = self.partie()['faits']
-        if lieu == 'puits' and not f.get('objet:rune'):
-            self.cap('puits'); self.objet('rune'); self.fenetre_code()
-            verifie(bool(self.partie()['faits'].get('objet:rune')), 'au fond du puits : la pierre de rune est trouvée (un code pour le Sage)')
+        if lieu == 'galerie' and not f.get('objet:rune'):
+            self.cap('galerie'); self.objet('rune'); self.fenetre_code()
+            verifie(bool(self.partie()['faits'].get('objet:rune')), 'dans la galerie : la pierre de rune est trouvée (un code pour le Sage)')
+            f = self.partie()['faits']
+        if False:
+            pass
         elif lieu == 'canaux' and not f.get('passage:canaux'):
             # l'ordre du plan du Sage : 3 à droite, 1 à gauche, 2 à droite
             self.cap('canaux-calme')

diff --git a/PASSATION.md b/PASSATION.md
@@ -1,4 +1,4 @@
-# Passation — « Les Enquêteurs de Brumeval » (5 novembre 2026, mise à jour le 11 novembre à 8 h 35)
+# Passation — « Les Enquêteurs de Brumeval » (5 novembre 2026, mise à jour le 11 novembre à 9 h 05)
 
 À lire en entier par la nouvelle conversation avant de toucher à quoi que ce soit.
 
@@ -53,7 +53,7 @@ Jeu d'enquête coopératif sur 4 tablettes (Pisteur, Alchimiste, Barde, Sage) po
   - la conception : `jeu/donjon/CONCEPTION-DONJON.md` ;
   - **le cahier des charges du moteur : `jeu/donjon/MOTEUR-DONJON.md`** (c'est la feuille de route pour assembler le donjon jouable : les règles sans affichage et la simulation de difficulté, le combat à l'écran, l'exploration, les sauvegardes, les tests) ;
   - **les règles de tous les combats : `jeu/donjon/moteur/`** (`src/donnees.js`, `src/regles.js`, sans affichage ; mode d'emploi `REGLES.md` ; `node test-regles.js` ; la difficulté : `node equilibre.js`, rapport `equilibre.md`). L'affichage ne décide jamais d'un résultat : il joue la liste d'évènements que rendent les règles ;
-  - **le donjon jouable (en ligne depuis le 10 novembre, 15 h 43 ; dernière version : 11 novembre, 8 h 34, commit du site 369ee6d, « 11/11 à 8 h 10 » — la version se lit en bas de « 🎒 Objets »)** : https://esperidad-tech.github.io/brumeval/donjon/ (le Pisteur), https://esperidad-tech.github.io/brumeval/donjon/sage.html, https://esperidad-tech.github.io/brumeval/donjon/alchimiste.html. Tout est dans `jeu/donjon/moteur/` :
+  - **le donjon jouable (en ligne depuis le 10 novembre, 15 h 43 ; dernière version : 11 novembre, 9 h 05, commit du site c9bd23a, « 11/11 à 8 h 48 » — la version se lit en bas de « 🎒 Objets »)** : https://esperidad-tech.github.io/brumeval/donjon/ (le Pisteur), https://esperidad-tech.github.io/brumeval/donjon/sage.html, https://esperidad-tech.github.io/brumeval/donjon/alchimiste.html. Tout est dans `jeu/donjon/moteur/` :
     - `src/noyau.js` (outils), `betes.js` (les 10 monstres), `combat.js` (le combat à l'écran), `explo.js` (départ, carte, salles, codes, sauvegardes, fin), `demarrage.js` ;
     - `python3 construire.py` fabrique `moteur/sortie/` (`index.html`, `sage.html`, `alchimiste.html`, `a/`, `i/`). **Mettre en ligne = copier `sortie/` tel quel dans `brumeval/donjon/` du dépôt du site, puis pousser.** `sortie/` n'est pas dans Git ;
     - si on touche à `pages/` (Sage, Alchimiste) : `python3 pages/assembler.py` (depuis `jeu/donjon/`) avant `construire.py` ;
@@ -63,7 +63,7 @@ Jeu d'enquête coopératif sur 4 tablettes (Pisteur, Alchimiste, Barde, Sage) po
     - **deuxième série de retours le 10 novembre à 17 h 47 et 17 h 56 : Romain a tout décidé et donné son « go » pour tout construire, dans l'ordre 1 (sons), 2 (exploration et Sage), 3 (combat)**. La liste complète de ses décisions est dans la Bible §12.51 (« Deuxième série de retours »). **Lire ce bloc avant de toucher au donjon** ;
     - **point 1 fait et en ligne (18 h 57)** : une ambiance par zone à la place de la musique de combat, trois longues musiques pour le Gardien, le Roi des rats et Bourbe, les pas C et D tirés au hasard, le critique mesuré sur l'appareil (`DJ.mesurerCritique`) et allégé s'il rame. **Romain n'a pas encore écouté les musiques** (versions A, provisoires : il choisit dans l'Atelier). **Le ralentissement du critique sur son iPhone n'est pas expliqué** : s'il le sent encore, lui demander la dernière ligne de « 🎒 Objets » ;
     - **point 2, première moitié, en ligne (19 h 48)** : la défaite ne fait revenir que les monstres ; plus de ronds jaunes dans les salles ; la rune du Sage à trouver au fond du puits (code `rune:lumiere`) ; le passage secret des canaux (la roue : 3 à droite, 1 à gauche, 2 à droite) ; les dalles à code (N B B, N B N) ; le plan du Sage refait (notes toutes utiles). Détail et choix à confirmer par Romain : Bible §12.51 ;
-    - **point 2, suite, en ligne (20 h 37)** : l'étude des monstres. En combat, « Étudier » fait entrer le code du monstre dans le journal (l'ancien bouton « Grand Livre » du donjon) ; tapé sur la tablette du Sage, il ouvre la page du monstre : son portrait et ses énigmes (`D.LIVRE`, jamais le nom du pouvoir). Romain n'a pas voulu des devinettes (20 h 55) : **depuis le 11 novembre (8 h 34), la page d'un monstre est le journal d'un aventurier** (un croquis à l'encre et son récit, validés par Romain), et **le carnet se ramasse à l'entrée du donjon** (code `carnet:aventurier` pour le Sage). Tout est dans `jeu/donjon/CARNET-EXPLORATEUR.md` : le lire avant de toucher à une page ;
+    - **point 2, suite, en ligne (20 h 37)** : l'étude des monstres. En combat, « Étudier » fait entrer le code du monstre dans le journal (l'ancien bouton « Grand Livre » du donjon) ; tapé sur la tablette du Sage, il ouvre la page du monstre : son portrait et ses énigmes (`D.LIVRE`, jamais le nom du pouvoir). Romain n'a pas voulu des devinettes (20 h 55) : **depuis le 11 novembre (8 h 34), la page d'un monstre est le journal d'un aventurier** (un croquis à l'encre et son récit, validés par Romain), et **le carnet se ramasse à l'entrée du donjon** (code `carnet:aventurier` pour le Sage ; toutes ses pages sont ouvertes dès qu'il l'a). **Le donjon est le même qu'on entre par le puits ou par la crypte : seule la pièce d'entrée change** ; la pierre de rune du Sage est donc dans la deuxième salle (la galerie effondrée). **Question en attente : le geste « Étudier » du Sage sert-il encore, maintenant que tout le carnet est ouvert ?** Tout est dans `jeu/donjon/CARNET-EXPLORATEUR.md` : le lire avant de toucher à une page ;
     - **point 3, en ligne (21 h 08)** : toutes les potions (plus de sac, plus de sacoche), le Pisteur porte tous ses carquois et choisit sa flèche en combat (la flèche de lune rebondit sur l'armure, la transperçante passe à travers les bêtes de brume), petites cartes dans la bande du combat. Détail : Bible §12.51 et `moteur/REGLES.md` §11 ;
     - **reste à faire (go de Romain déjà donné : « pareil pour les autres héros »)** : les armes du Sage — prendre le cristal de lune ET le bâton de chêne au lutrin, et choisir en combat entre la rune simple et la rune sur toute la salle ;
     - **à régler avec Romain après ses essais** : la difficulté (avec toutes les potions, c'est plus facile) ; deux pages du journal qu'il n'a pas lues dans leur forme finale (Roi des rats, Bourbe : `CARNET-EXPLORATEUR.md`) ; le lien entre les missions de l'Alchimiste et ses potions (pour l'instant il les a toutes ; essai avec `?nouveau=1&potions=feu,huile,baume`). La simulation `equilibre.js` tourne, mais son rapport `equilibre.md` n'est pas réécrit (2 cibles manquées) ;

diff --git a/jeu/DESIGN-saison1.md b/jeu/DESIGN-saison1.md
@@ -2342,8 +2342,9 @@ Vérifié : `verif.js` « Tout est bon », `tuto.py` sans échec, `partie2.py` (
   - **Troisième série de retours de Romain (10 novembre, 20 h 55, 21 h 05 et 21 h 08) : il ne veut pas des énigmes « Qui suis-je ? » sur la page des monstres.** « Qui aurait écrit des énigmes ? Ça n'a pas de sens. » Il veut **le journal d'un aventurier** : des monstres **dessinés à la main, comme dans un carnet**, et le récit de quelqu'un qui a traversé le donjon sans pouvoirs, avec ses propres outils, « avec ses déboires, ses réussites », qui n'a pas tout testé (« si seulement j'avais eu… ») et ne dit pas tout. Il faut être **logique et concret** (une lampe à huile fige les rats, elle ne les fait pas se dresser ; un seul objet du début à la fin). Les énigmes cachées, c'est pour **la carte du Sage**. Tout est dans `jeu/donjon/CARNET-EXPLORATEUR.md` (ses mots, les versions des pages, les croquis).
   - **Le journal de l'aventurier : validé le 11 novembre (8 h 02 et 8 h 03), construit et en ligne à 8 h 34** (commit du site 369ee6d, version « 11/11 à 8 h 10 »). Romain, après quatre versions des pages (« raconter, ne pas décrire » ; « il faut être logique » ; le rat « super », Bourbe « pas mal ») : « Oui pour les 3 » (ajouter au Roi des rats que le cri marche dans la fumée ; raccourcir Bourbe ; le style des croquis), puis « go pour créer la page du Sage, et fais en sorte qu'il y ait un livre à l'entrée du puits ou l'entrée de la crypte ».
     - **la page d'un monstre, sur la tablette du Sage** : son croquis à l'encre brune sur vieux papier, et le récit de l'aventurier, en un à trois paragraphes (chacun son 🔊). Plus de titres, plus de questions. Les textes : `D.LIVRE` (`moteur/src/donnees.js`) ; les croquis : `pages/portraits/` (fabriqués par `pages/croquis/seuls.py` puis `croquis.py`, à partir des monstres du bestiaire) ;
-    - **le carnet est un objet du donjon** : il attend par terre à l'entrée (le fond du puits). Le Pisteur le ramasse et montre un code au Sage (`carnet:aventurier`, 🎩 🌳 🐟). Sur la tablette du Sage, le carnet entre dans le Grand Livre (« 📓 Le vieux carnet ») ; ses pages sont « collées par l'humidité », et chaque monstre étudié en décolle une. Un code d'étude marche même sans le carnet ;
-    - Romain a ajouté : « On va garder la même longueur pour la crypte ou le puits. » Compris ainsi : le livre est à l'entrée du donjon, que ce soit le puits ou la crypte ; **à lui redemander si ce n'est pas ça** ;
+    - **le carnet est un objet du donjon** : il attend par terre à l'entrée (le fond du puits). Le Pisteur le ramasse et montre un code au Sage (`carnet:aventurier`, 🎩 🌳 🐟). Sur la tablette du Sage, le carnet entre dans le Grand Livre (« 📓 Le vieux carnet »). (La première version, de 8 h 34, avait des pages « collées par l'humidité » que l'étude décollait une à une : Romain n'en a pas voulu, voir plus bas.) Un code d'étude marche même sans le carnet ;
+    - **l'entrée du donjon (Romain, 11 novembre, 8 h 45 et 8 h 46)** : « le donjon en partant de la crypte ou en partant du puits, c'est le même. Tu changes juste la pièce de l'entrée. » **Rien ne doit donc dépendre de l'entrée.** La pierre de rune du Sage n'est plus dans la première salle : elle est **dans la deuxième, la galerie effondrée**, parmi les éboulis (toujours sans lueur ni rond jaune), et la tablette du Sage ne dit plus « au fond du puits ». Seul le carnet reste à l'entrée ;
+    - **le carnet, corrigé à sa demande (8 h 45, en ligne à 9 h 05, commit du site c9bd23a, version « 11/11 à 8 h 48 »)** : pas de « pages collées », on dit seulement « un aventurier » (sans préciser qu'il n'a pas de pouvoirs), et **toutes les pages sont ouvertes dès le début** : dès que le Sage a le carnet, il feuillette ses neuf pages. Un code d'étude ouvre le carnet tout droit à la page du monstre. **Question posée à Romain, pas tranchée : le geste « Étudier » du Sage sert-il encore ? (le garder comme raccourci, ou le retirer)** ;
     - **deux textes qu'il n'a pas lus dans leur forme finale** : la dernière phrase du Roi des rats et la page de Bourbe raccourcie ;
     - tests : règles 360, Sage 204, combats 36 (canaux, toiles, l'étude, les potions et les flèches), visite 84 (elle ramasse le carnet), vraie descente 20.
 - **Les 13 salles sans combat sont faites** (`jeu/donjon/scenes/`, planche `scenes/planche.png`, envoyée à Romain). Ce sont des fonds en images, avec des objets à toucher qui brillent puis s'envolent vers le sac (`OBJETS`) :

diff --git a/jeu/donjon/CARNET-EXPLORATEUR.md b/jeu/donjon/CARNET-EXPLORATEUR.md
@@ -4,8 +4,10 @@
 
 - Les pages en ligne sont celles de `D.LIVRE` (`moteur/src/donnees.js`) : la version 4 ci-dessous, avec deux retouches acceptées par Romain (« oui pour les 3 ») : au **Roi des rats**, la phrase « Cette fois, mon cri les a fait sursauter, et j'ai vu le nœud de leurs queues » ; **Bourbe** raccourci dans le même esprit que les autres. **Romain n'a pas encore lu ces deux textes dans leur forme finale.**
 - Les neuf croquis sont dans `pages/portraits/<id>.webp` (les originaux en PNG : `pages/croquis/croquis-<id>.png`). Style validé (« oui »).
-- **Le carnet est un objet** : il attend à l'entrée du donjon (`carnet`, dans la salle `puits`, par terre entre le Pisteur et la corde). Le Pisteur le ramasse : code `carnet:aventurier` (🎩 🌳 🐟) pour le Sage. Sur la tablette du Sage, le carnet entre dans le Grand Livre (« 📓 Le vieux carnet ») ; ses pages sont « collées par l'humidité » : chaque monstre étudié en décolle une (le code d'étude). Un code d'étude marche même sans le carnet (rien ne bloque).
-- Romain a ajouté : « On va garder la même longueur pour la crypte ou le puits. » Compris ainsi : le livre est à l'entrée du donjon, que cette entrée soit le puits (aujourd'hui) ou la crypte (dans l'enquête 3), et rien d'autre ne change. **À lui redemander si ce n'est pas ça.**
+- **Le carnet est un objet** : il attend à l'entrée du donjon (`carnet`, dans la salle `puits`, par terre entre le Pisteur et la corde). Le Pisteur le ramasse : code `carnet:aventurier` (🎩 🌳 🐟) pour le Sage. Sur la tablette du Sage, le carnet entre dans le Grand Livre (« 📓 Le vieux carnet »).
+- **Romain, 11 novembre, 8 h 45 (après avoir vu la première version en ligne)** : « Je préférerais que dans le livre il n'y ait pas de page collée ou quoi que ce soit. Qu'on dise juste que c'est un aventurier, tu ne précises pas qu'il n'a pas de pouvoirs. Et qu'il y ait **toutes les pages débloquées dès le début**. » **Fait (9 h 05)** : dès que le Sage a le carnet, il feuillette ses neuf pages ; le texte dit seulement « un aventurier, qui a tout noté ». Un code d'étude ouvre le carnet tout droit à la page du monstre (et marche même sans le carnet).
+- **Question posée à Romain, pas encore tranchée** : puisque tout le carnet est ouvert dès le début, le geste « Étudier » du Sage en combat ne sert plus qu'à aller droit à la bonne page. Le garder, ou le retirer ?
+- **8 h 45 et 8 h 46, l'entrée** : « le donjon en partant de la crypte ou en partant du puits, c'est le même. Tu changes juste la pièce de l'entrée. » Donc rien ne doit dépendre de l'entrée : **la pierre de rune du Sage n'est plus dans la première salle, mais dans la deuxième** (la galerie effondrée, parmi les éboulis), et la tablette du Sage ne dit plus « au fond du puits ».
 
 ## Ce que Romain a dit (10 novembre, 20 h 55, 21 h 05 et 21 h 08)
 
